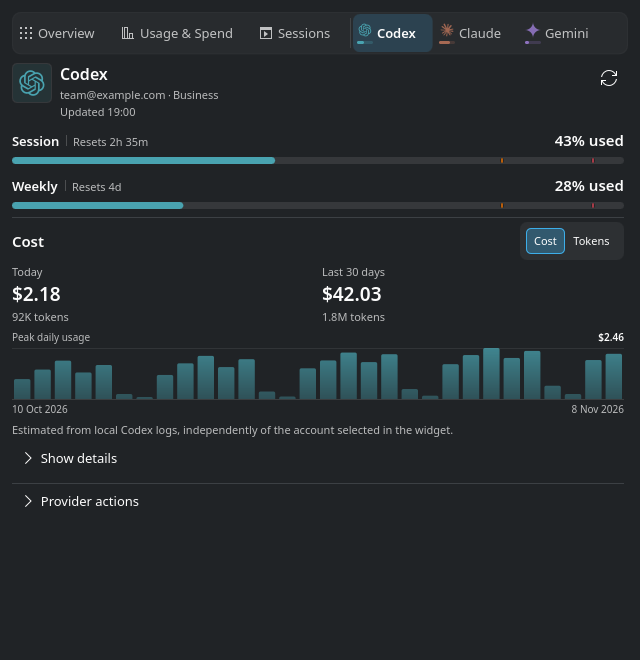
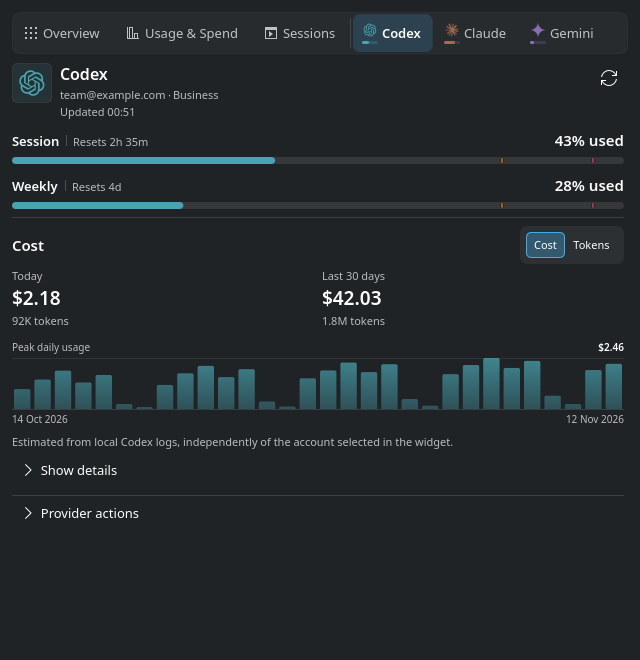
style(popup): space the provider Cost section evenly (#760)
Keep the Cost/Tokens switch clear of the divider, separate the daily
history chart from the summary figures, and give the source note room
from the chart's date axis. Regenerate the README Codex capture.

diff --git a/contents/ui/components/ProviderCostSection.qml b/contents/ui/components/ProviderCostSection.qml
@@ -110,8 +110,11 @@ ColumnLayout {
         opacity: tokenCostSection.applet.secondaryTextOpacity
     }
 
+    // Matches the gap above the separator so the metric toggle does not
+    // crowd the rule.
     RowLayout {
         Layout.fillWidth: true
+        Layout.topMargin: Kirigami.Units.smallSpacing
 
         PlainHeading {
             text: i18n("Cost")
@@ -211,7 +214,8 @@ ColumnLayout {
         kind: "bar"
         showPeak: true
         accessibleTitle: tokenCostSection.costHistoryShowsTokens ? i18n("Daily token history") : i18n("Daily cost history")
-        Layout.topMargin: Kirigami.Units.smallSpacing / 2
+        // History is a separate group from the summary figures above it.
+        Layout.topMargin: Kirigami.Units.largeSpacing
     }
 
     // The source note qualifies the figures above, so it stays beside them
@@ -222,7 +226,7 @@ ColumnLayout {
         font: Kirigami.Theme.smallFont
         opacity: applet.secondaryTextOpacity
         Layout.fillWidth: true
-        Layout.topMargin: Kirigami.Units.smallSpacing / 2
+        Layout.topMargin: Kirigami.Units.smallSpacing
         wrapMode: Text.WordWrap
     }
 

diff --git a/CHANGELOG.md b/CHANGELOG.md
@@ -16,6 +16,9 @@ For earlier versions, see [GitHub Releases](https://github.com/Lucenx9/codexbar-
   copy is selected. Saved preferences are preserved; instances without a saved
   value adopt the new default. System and package-manager CLI installations
   continue to use their original update method.
+- Space the provider Cost section more evenly: keep the Cost/Tokens switch
+  clear of the divider and separate daily history from the summary figures
+  and from its source note.
 
 ### Fixed
 
